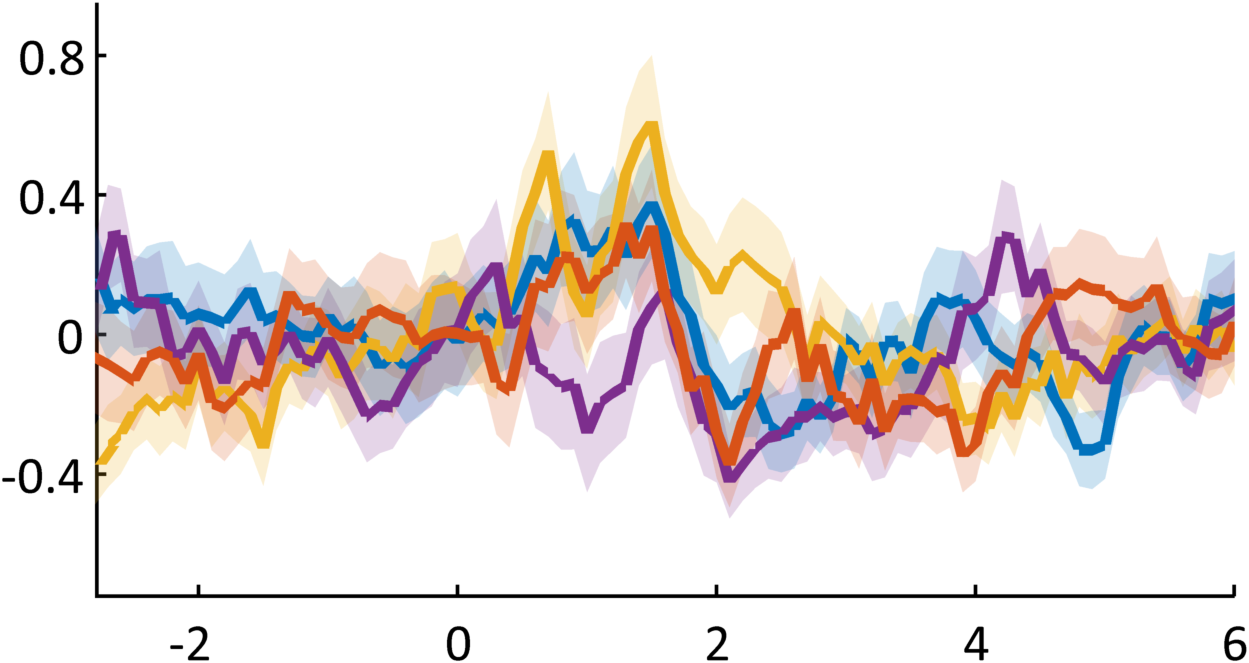
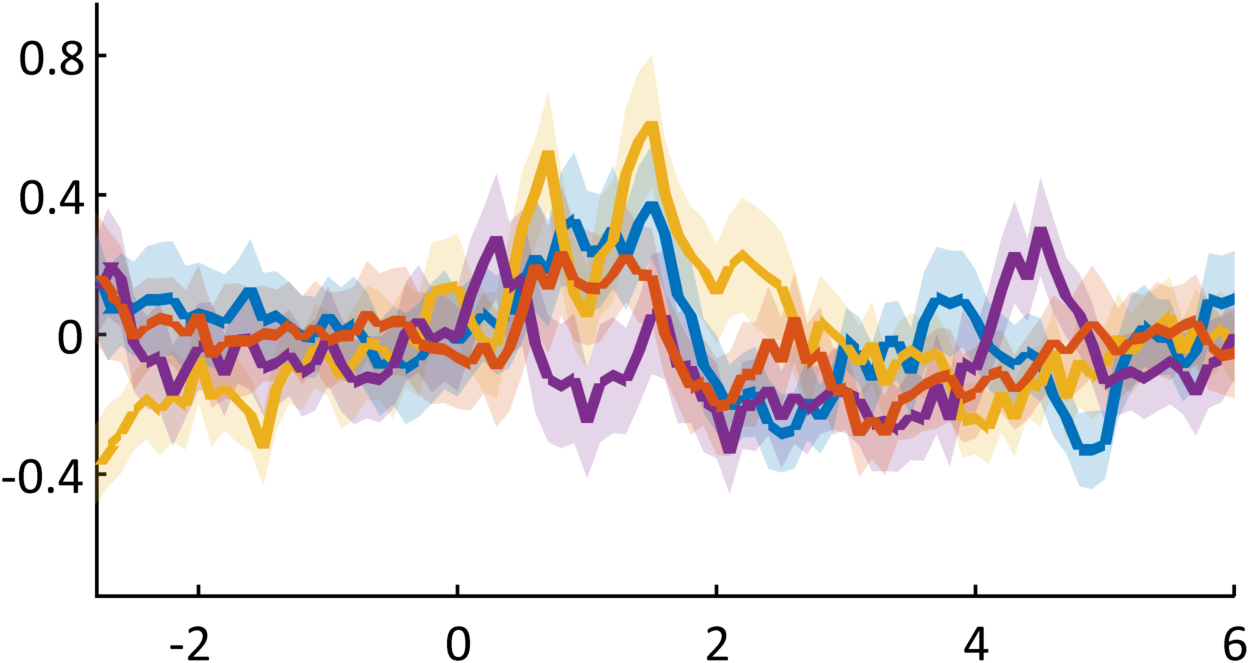
slight change

Changed region(s): [[0.0624, 0.2715, 0.9992, 0.7843], [0.6245, 0.3922, 0.6557, 0.4223]]

diff --git a/testing_boundedlines.m b/testing_boundedlines.m
@@ -395,7 +395,7 @@ for condIDX=1:2
     %title(['Reinforcer Consumption Modulated Cells: ' tmpStr]);
     set(hl,'linewidth',2.2);
     plot([-3 13],[0 0],'linestyle','--','color',[.5 .5 .5],'linewidth',.9);
-    axis([-2.8 6 -.6 .9]);
+    axis([-2 2 -.6 .9]);
     set(gca,'YTick', [-.4 0 .4 .8]);
     set(gca,'XTick', [-2 0 2 4 6]);
     set(gca,'FontSize',8)
